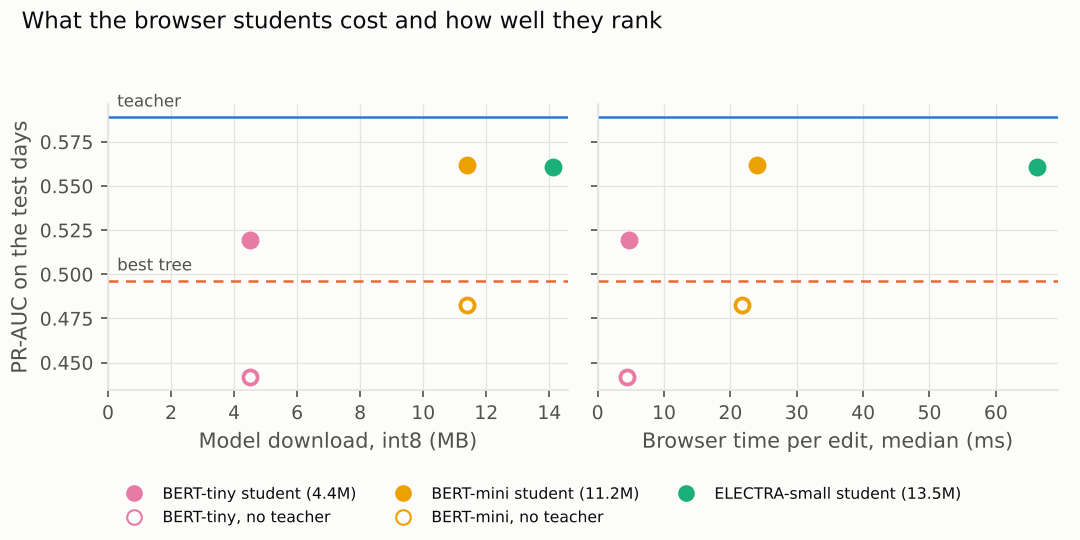
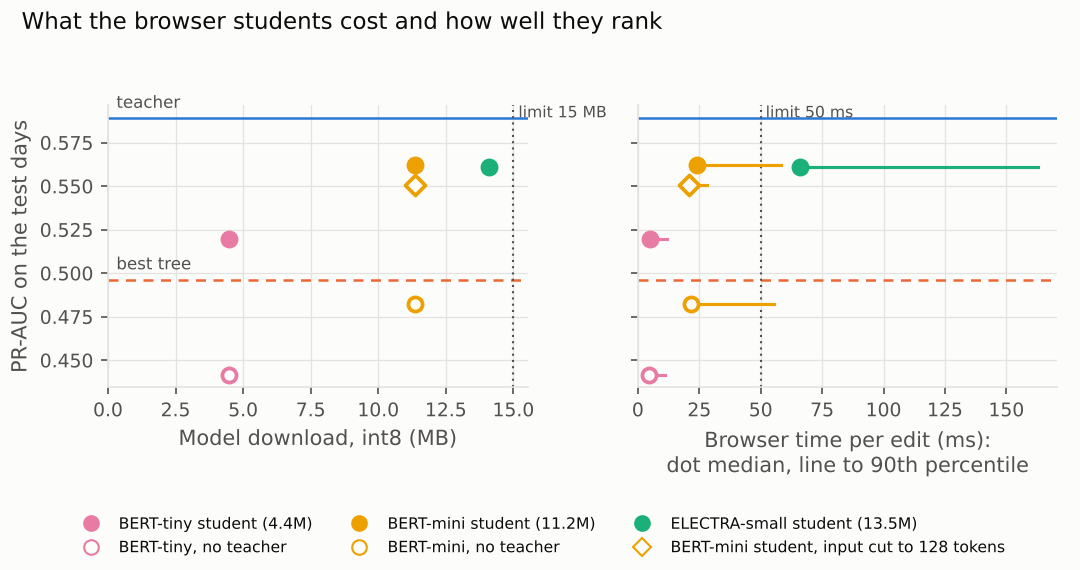
Finish the phase 3 report: shorter inputs, limits on the trade-off chart, choice for phase 4

diff --git a/reports/phase3.md b/reports/phase3.md
@@ -23,18 +23,19 @@ phase 2, 3 to 5 November 2026 (247,471 edits, 5.7% reverted).
   PyTorch original, and the browser's scores match Python's to within 0.07 on
   the logit scale.
 - **Speed in the browser** (one WebAssembly thread on a 2-core server CPU):
-  BERT-tiny takes 4.8 ms per edit (median) and stays under 50 ms on every
-  edit measured. BERT-mini takes 24 ms, but long edits take about 59 ms, over
+  BERT-tiny takes 4.8 ms per edit (median), and 25 ms at the 99th
+  percentile. BERT-mini takes 24 ms, but long edits take about 59 ms, over
   the budget. Cutting BERT-mini's input from 256 to 128 tokens brings even
-  its slowest 1% of edits under 40 ms, at a cost of TBD128 PR-AUC.
+  its slowest 1% of edits under 40 ms, and lowers its PR-AUC from 0.562 to
+  0.551. That is still 0.055 above the tree.
 - **Where the students fall short** is spelled out in its own section below.
   The main points:
   - BERT-mini loses a fifth of the teacher's correct top-2% flags; BERT-tiny
     loses almost a third.
   - The gap is widest on anonymous edits, where most reverts are.
   - On long edits, BERT-tiny is worse than the tree.
-  - Like every model so far, the students do little better than chance on
-    experienced editors' edits.
+  - Like every model so far, the students rank experienced editors' edits
+    poorly (PR-AUC 0.08, against a base rate of 1.3%).
 
 ## What I built
 
@@ -62,8 +63,8 @@ phase 2, 3 to 5 November 2026 (247,471 edits, 5.7% reverted).
   - The teacher's score is softened (temperature 2) so the student also learns
     from how sure the teacher was, not only which side it came down on.
   - The teacher's scores on the training edits come from the teacher itself,
-    trained on those edits, so they are more confident than its scores on new
-    edits would be.
+    trained on those edits, so they may be more confident than its scores on
+    new edits would be.
 - **Without the teacher:** BERT-tiny and BERT-mini were also trained on the
   labels alone, with everything else the same, to measure what the teacher
   adds.
@@ -96,14 +97,14 @@ phase 2, 3 to 5 November 2026 (247,471 edits, 5.7% reverted).
 
 ### Quality
 
-Every model scored on all 247,471 test edits. Student scores are from the
+Every model was scored on all 247,471 test edits. Student scores are from the
 int8 ONNX files, which is what the browser runs. Square brackets are 95%
 bootstrap intervals over edits (1,000 resamples).
 
 | Model | int8 size | PR-AUC | Precision at top 2% | Recall at top 2% | Recall at top 5% | ROC-AUC | Brier |
 |---|---|---|---|---|---|---|---|
 | Teacher (DeBERTa-v3-base) | 738 MB (float32) | 0.589 [0.580-0.597] | 0.85 [0.84-0.86] | 0.30 | 0.51 | 0.917 | 0.0342 |
-| BERT-mini student | 11.4 MB | 0.562 [0.554-0.571] | 0.81 [0.80-0.82] | 0.28 | 0.50 | 0.914 | 0.0355 |
+| BERT-mini student | 11.4 MB | 0.562 [0.554-0.571] | 0.81 [0.80-0.82] | 0.28 | 0.49 | 0.914 | 0.0355 |
 | ELECTRA-small student | 14.1 MB | 0.561 [0.552-0.569] | 0.81 [0.79-0.82] | 0.28 | 0.49 | 0.914 | 0.0356 |
 | BERT-tiny student | 4.5 MB | 0.520 [0.511-0.528] | 0.74 [0.72-0.75] | 0.26 | 0.47 | 0.910 | 0.0375 |
 | GBDT, metadata + diff statistics (phase 2) | | 0.496 [0.487-0.505] | 0.70 [0.69-0.71] | 0.25 | 0.46 | 0.909 | 0.0381 |
@@ -131,9 +132,9 @@ bootstrap intervals over edits (1,000 resamples).
   0.04 BERT-mini gains over BERT-tiny from being two and a half times bigger.
 - **Without the teacher, the students overfit.** Both were barely better on
   validation after the second epoch than after the first, and got worse in
-  the third, so their second-epoch checkpoints are used. The
-  distilled students were still improving at the end of the third epoch, so
-  longer training might help them. I haven't tested it.
+  the third, so their second-epoch checkpoints are used. The distilled
+  students were still improving at the end of the third epoch, so longer
+  training might help them. I haven't tested it.
 - **ELECTRA-small:** 12 layers instead of 4, and no better than BERT-mini on
   any measure here.
 
@@ -196,14 +197,14 @@ edits scored one at a time, tokenising included. "Full-length edits" are the
 - **Time grows with length:** the 500 edits average 138 tokens, and
   full-length edits take two and a half times as long as the median edit.
 - **Against the 50 ms budget:**
-  - **BERT-tiny** is under it on every edit measured.
+  - **BERT-tiny** is under it even at the 99th percentile (25 ms).
   - **BERT-mini** is under it on a typical edit but over it on most long
     ones, which are one edit in seven.
   - **ELECTRA-small** is over it on a typical edit.
 - **What this means for the demo:** English Wikipedia's stream averages about
   one non-bot edit per second (963,000 in the 12 days collected), so even
-  ELECTRA-small would keep up. The budget is
-  about keeping a visitor's laptop responsive, not about throughput.
+  ELECTRA-small would keep up. The budget is about keeping a visitor's laptop
+  responsive, not about throughput.
 
 ![PR-AUC against download size and browser time, with the 15 MB and 50 ms limits](phase3/tradeoff.png)
 
@@ -216,13 +217,24 @@ the edits longer than the cut are affected.
 | BERT-mini input | PR-AUC | Median | 90th percentile | 99th percentile | Edits at the cut |
 |---|---|---|---|---|---|
 | 256 tokens (trained length) | 0.562 | 24.0 ms | 58.4 ms | 85.8 ms | 14% |
-| 192 tokens | TBD192 | 22.2 ms | 42.5 ms | 64.5 ms | 21% |
-| 128 tokens | TBD128 | 20.9 ms | 28.0 ms | 38.4 ms | 40% |
+| 192 tokens | 0.559 | 22.2 ms | 42.5 ms | 64.5 ms | 21% |
+| 128 tokens | 0.551 | 20.9 ms | 28.0 ms | 38.4 ms | 40% |
 
-PR-AUC is calibrated on the validation day at the same length. Timings come
-from separate browser runs, so differences of 10% are within run-to-run noise.
+- **Quality:** PR-AUC is on all test edits. The scores are calibrated on the
+  validation day at the same length.
+- **Timings and "edits at the cut":** from the same 500 edits as above, in
+  separate browser runs, so differences of 10% are within run-to-run noise.
 
-TBDCUT
+- **At 128 tokens:** BERT-mini is under 50 ms even at the 99th percentile
+  (38 ms), and loses 0.011 PR-AUC.
+  - Precision at the top 2% falls from 0.81 to 0.79.
+  - It is still 0.031 above BERT-tiny and 0.055 above the tree.
+  - I didn't compute intervals for these differences.
+- **At 192 tokens:** it loses only 0.004, but its slowest edits (99th
+  percentile 64.5 ms) are still over the budget.
+- **What is lost:** the cut drops the end of the diff on about two edits in
+  five. Training at 128 tokens might recover some of the loss. I haven't
+  tried it.
 
 ### Do int8 and the browser change the scores?
 
@@ -264,8 +276,8 @@ places.
 
 ## Where the small models fall short
 
-The students are better than anything else that fits in a browser, but they
-are not the teacher.
+The students beat every other model I've tried that would fit in a browser,
+but they are not the teacher.
 
 **They miss many of the teacher's correct flags.** Of the 4,214 edits the
 teacher ranks in its top 2% that were then reverted:
@@ -292,10 +304,11 @@ alert rate:
 - **Anonymous edits:** BERT-tiny is 0.09 behind the teacher here, against
   0.07 overall.
 - **Note:** the anonymous figures are on all 35,036 anonymous test edits.
-  Phase 2's 0.703 for the teacher was on its 25,000-edit sample.
-- **Experienced editors:** no model is useful on them, and the students
-  don't change that. Their edits are three-quarters of the stream and 18% of
-  reverts.
+  Phase 2's 0.703 for the teacher was on the anonymous edits in its
+  25,000-edit sample.
+- **Experienced editors:** every model ranks them poorly (PR-AUC about 0.08
+  against a base rate of 1.3%), and the students don't change that. Their
+  edits are three-quarters of the stream and 18% of reverts.
 
 **Long edits: BERT-tiny is worse than the tree.** PR-AUC by input length:
 
@@ -320,7 +333,8 @@ alert rate:
 - **Text the students can't read.** The students' vocabulary turns some
   characters (many non-Latin scripts and symbols) into an "unknown" token.
   - Only 1.4% of test edits have any unknown tokens.
-  - On those, the students are no further behind the teacher than elsewhere.
+  - On those, the students are about as far behind the teacher as elsewhere
+    (these groups are small: 2,915 and 428 edits).
 - **The missed flags.** The teacher's correct flags that the students miss
   look like the ones they keep:
   - a similar share of anonymous editors (74% missed against 76% kept, for
@@ -333,10 +347,10 @@ alert rate:
 
 **Other limits:**
 
-- **Speed is measured on one machine,** a 2-core cloud server, not a laptop
-  or a phone. A phone would probably be slower. I haven't measured one.
+- **Speed is measured on one machine,** a 2-core cloud server. I haven't
+  measured a laptop or a phone.
 - **Speed and accuracy pull against each other for BERT-mini.** Fitting it
-  under 50 ms on long edits means cutting its input, which costs TBD128
+  under 50 ms on long edits means cutting its input, which costs 0.011
   PR-AUC.
 - **The download is bigger than the model.** The runtime adds 3.7 MB
   compressed, or 14.2 MB if the host doesn't compress it.
@@ -345,7 +359,23 @@ alert rate:
 
 ## For phase 4
 
-TBDCHOICE
+Two students meet both limits on this machine:
+
+| | BERT-mini, input cut to 128 tokens | BERT-tiny |
+|---|---|---|
+| PR-AUC | 0.551 | 0.520 |
+| Precision at top 2% | 0.79 | 0.74 |
+| Model download (int8) | 11.4 MB | 4.5 MB |
+| First visit, all gzipped | 12.0 MB | 7.1 MB |
+| Median / 99th percentile per edit | 20.9 / 38.4 ms | 4.8 / 25.2 ms |
+
+- **BERT-mini at 128 tokens:** the better model. Its slowest edits have the
+  least room to spare.
+- **BERT-tiny:** has more speed in reserve for slower laptops and phones, and
+  is the smaller download.
+
+Before the demo is built, I'd want to time both on a real mid-range laptop
+and a phone, using `web/bench.html`.
 
 ## Reproducing
 
@@ -370,7 +400,8 @@ node web/test-tokeniser.mjs web-models/mini/vocab.txt cases.jsonl
 python -m training.compare_students --exports EXPORTS --teacher runs/teacher-v2-256 --baselines runs/baselines-v2 \
        --student tiny=web-models/tiny --student tiny_hard=web-models/tiny-hard --student mini=web-models/mini \
        --student mini_hard=web-models/mini-hard --student electra=web-models/electra \
-       --bench tiny=reports/phase3/bench-tiny.json ... --out reports/phase3
+       --bench tiny=reports/phase3/bench-tiny.json ... \
+       --cut mini=128=reports/phase3/shorter-inputs-mini.json=reports/phase3/bench-mini-128.json --out reports/phase3
 python -m training.student_gaps --splits runs/cache/splits-v2-maxchars1400-student --teacher runs/teacher-v2-256 \
        --baselines runs/baselines-v2 --exports EXPORTS --student tiny=web-models/tiny --student mini=web-models/mini \
        --out reports/phase3/gaps.json
